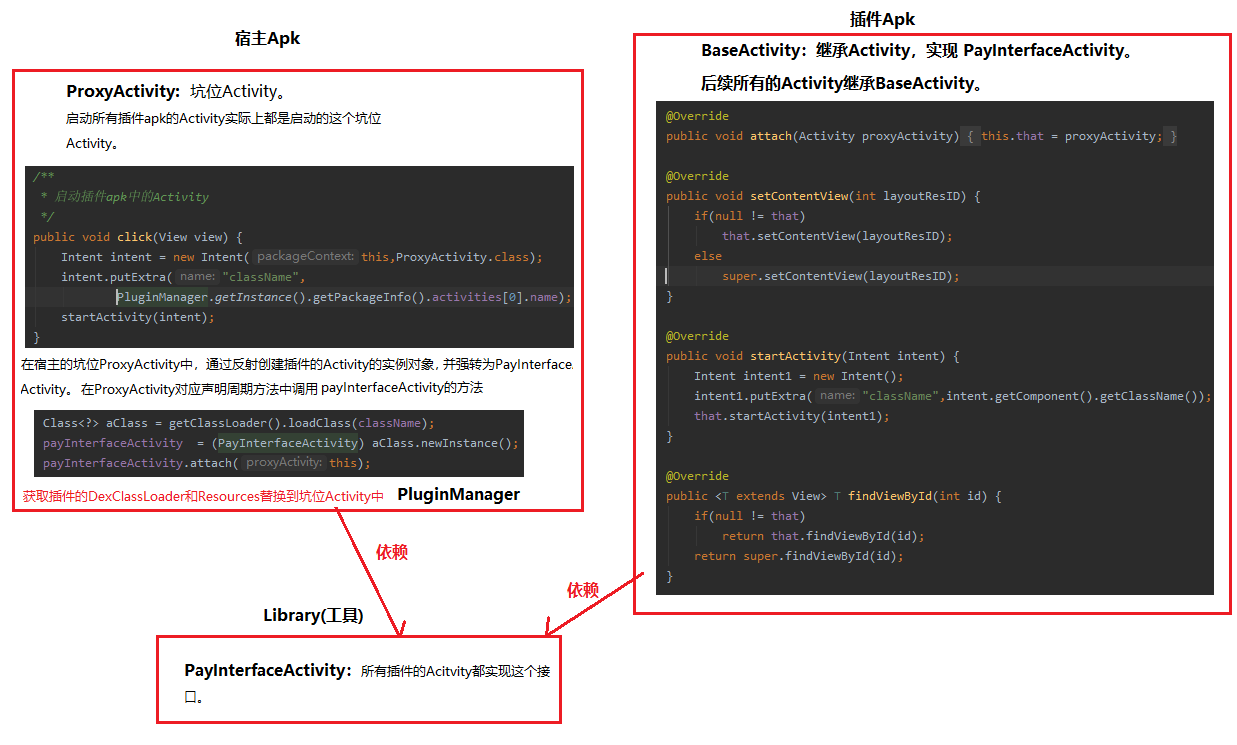
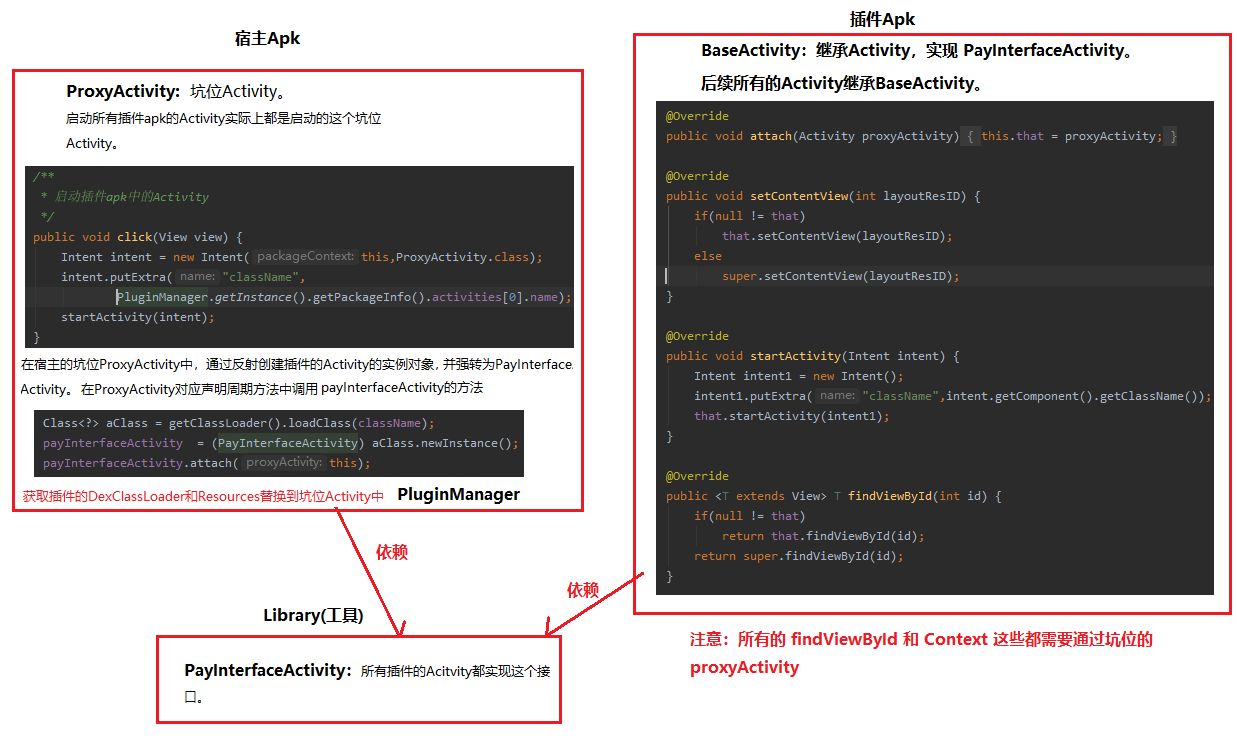
...

Changed region(s): [[0.553, 0.8336, 0.9523, 0.9262]]

diff --git a/7.dn架构师/markdown/23.插件化架构设计(一)-插件化介绍、插桩式-.md b/7.dn架构师/markdown/23.插件化架构设计(一)-插件化介绍、插桩式-.md
@@ -24,3 +24,8 @@
 # 2、插桩式（入侵性比较强）
 
 ![](../images/插件化-插桩.png)
+
+1. 宿主apk模块
+2. library接口
+3. 插件apk模块
+   - startActivity：重新最终还是跳转到ProxyActivity去显示。
